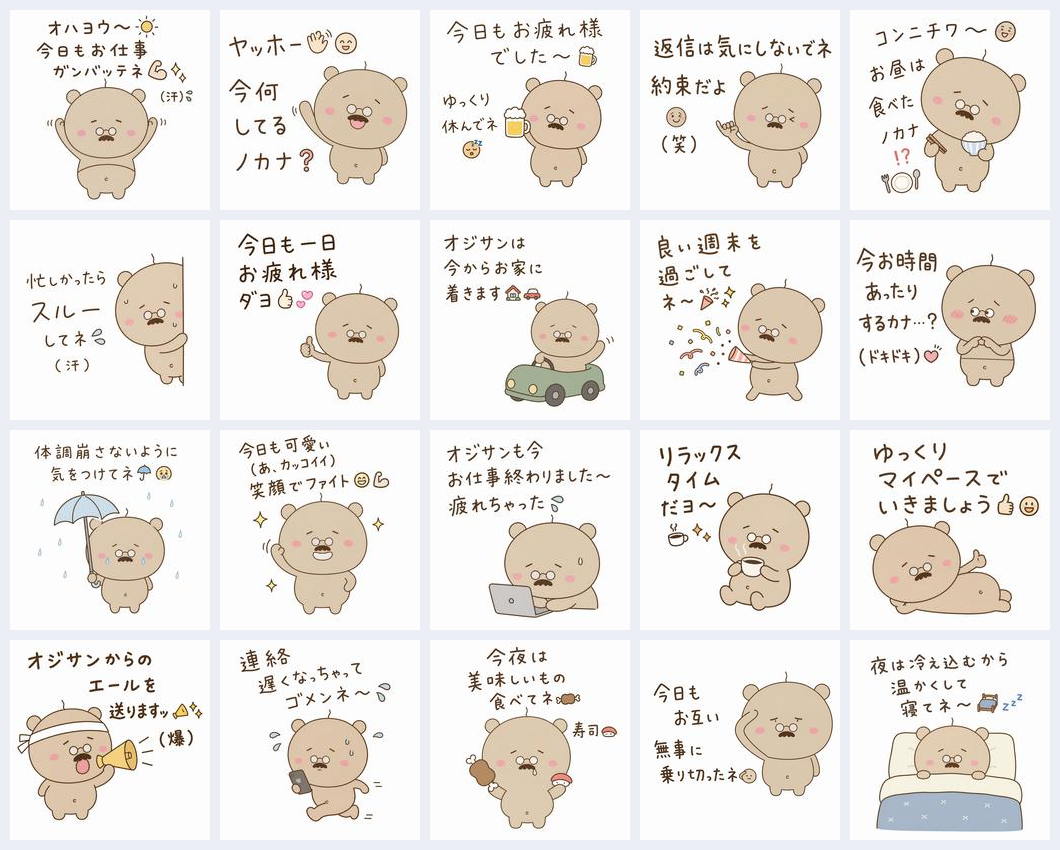
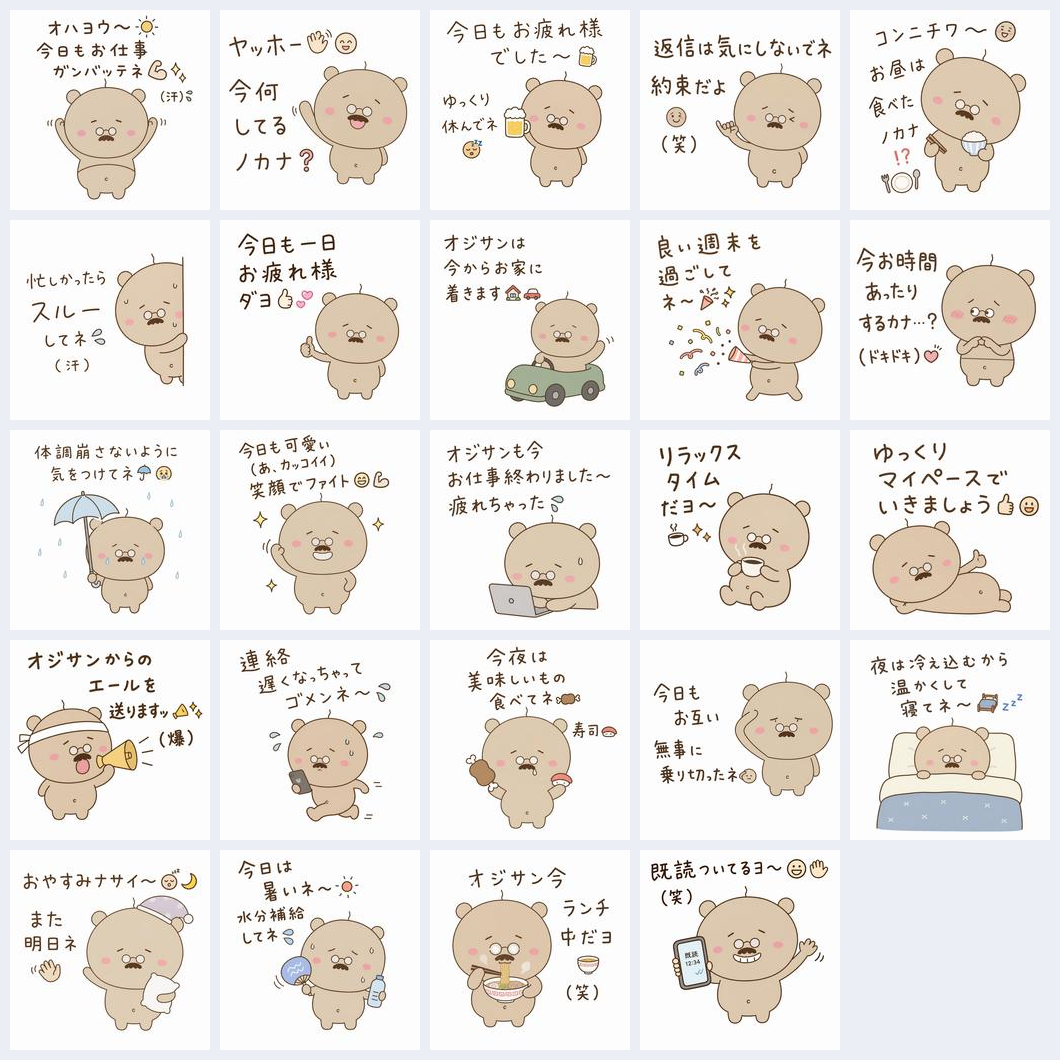
くまスタンプを各パターン24枚（計96枚）にそろえ、一覧とREADMEを更新
Claude-Session: https://claude.ai/code/session_01GnZrV33MXXmpxV4BdozbVJ

diff --git a/line-emoji/kuma/README.md b/line-emoji/kuma/README.md
@@ -1,10 +1,10 @@
-# ゆるクマおじさん LINEスタンプ（試作80枚）
+# ゆるクマおじさん LINEスタンプ（4セット×24枚）
 
 キャラクター原画: [Canvaで開く](https://www.canva.com/M/MAHXBGNiB4c)
 
-高画質版は各リンクからCanvaで確認できる。フォルダ内の `*_preview.jpg` は確認用の縮小画像（200px）。
+高画質版は各リンクからCanvaで確認できる。フォルダ内の `*_preview.jpg` は確認用の縮小画像（200px）。21〜24は24枚セットにするための追加分。
 
-## 【基本】日常使い・挨拶系
+## 【基本】日常使い・挨拶系（24枚）
 
 | # | セリフ | Canva |
 |---|---|---|
@@ -28,8 +28,12 @@
 | 18 | 今夜は美味しいもの食べてネ🍖寿司🍣 | [開く](https://www.canva.com/M/MAHXBU0RphM) |
 | 19 | 今日もお互い無事に乗り切ったネ🫡 | [開く](https://www.canva.com/M/MAHXBVfvnmg) |
 | 20 | 夜は冷え込むから温かくして寝てネ〜🛏💤 | [開く](https://www.canva.com/M/MAHXBc2B8hs) |
+| 21 | おやすみナサイ〜😴🌙また明日ネ✋ | [開く](https://www.canva.com/M/MAHXBq5_qiA) |
+| 22 | 今日は暑いネ〜☀水分補給してネ💦 | [開く](https://www.canva.com/M/MAHXBtNnms4) |
+| 23 | オジサン今ランチ中だヨ🍜（笑） | [開く](https://www.canva.com/M/MAHXBvqBS7c) |
+| 24 | 既読ついてるヨ〜😃✋（笑） | [開く](https://www.canva.com/M/MAHXBskwoLQ) |
 
-## 【派生①】感謝・褒める・共感系
+## 【派生①】感謝・褒める・共感系（24枚）
 
 | # | セリフ | Canva |
 |---|---|---|
@@ -53,8 +57,12 @@
 | 18 | いつもフォローしてくれて感謝だヨ🙏✨ | [開く](https://www.canva.com/M/MAHXBW6RwQU) |
 | 19 | オジサン味方だから何でも言ってネ💪😃 | [開く](https://www.canva.com/M/MAHXBcChACE) |
 | 20 | 嬉しすぎて跳び上がっちゃいました〜イエイ✌😃 | [開く](https://www.canva.com/M/MAHXBQqdois) |
+| 21 | おめでとう〜🎉オジサンも嬉しいヨ😭✨ | [開く](https://www.canva.com/M/MAHXBnLnyYo) |
+| 22 | キミのおかげだヨ〜🙏💕 | [開く](https://www.canva.com/M/MAHXBmWdWUU) |
+| 23 | さすがだネ〜オジサン見習わなきゃ📝😃 | [開く](https://www.canva.com/M/MAHXBp9mhP4) |
+| 24 | お土産アリガトウネ〜🎁😋 | [開く](https://www.canva.com/M/MAHXBiOg_1k) |
 
-## 【派生②】承諾・了解・返信系
+## 【派生②】承諾・了解・返信系（24枚）
 
 | # | セリフ | Canva |
 |---|---|---|
@@ -78,8 +86,12 @@
 | 18 | 了解〜オジサンも楽しみに待ってますッ♪ | [開く](https://www.canva.com/M/MAHXBcNMwNw) |
 | 19 | もちろん良いヨ〜むしろ大歓迎だヨ👍💕 | [開く](https://www.canva.com/M/MAHXBfgm4nY) |
 | 20 | 承知しましたッ🫡今日も頑張ろうネ💪 | [開く](https://www.canva.com/M/MAHXBfWGrDQ) |
+| 21 | 了解〜詳細は後で教えてネ📱😉 | [開く](https://www.canva.com/M/MAHXBg4u-yI) |
+| 22 | 確認しておきますッ🔍✨ | [開く](https://www.canva.com/M/MAHXBrM59sg) |
+| 23 | 全然OKだヨ〜気にしないでネ👌😊 | [開く](https://www.canva.com/M/MAHXBv7NuqY) |
+| 24 | スケジュール空けておきますッ📅✨ | [開く](https://www.canva.com/M/MAHXBhBgn_o) |
 
-## 【派生③】謝罪・言い訳・労り系
+## 【派生③】謝罪・言い訳・労り系（24枚）
 
 | # | セリフ | Canva |
 |---|---|---|
@@ -103,3 +115,7 @@
 | 18 | 今日はもう休んで明日また頑張ろうネ🛏✨ | [開く](https://www.canva.com/M/MAHXBl5VYas) |
 | 19 | 心配になっちゃいました💦大丈夫カナ…❓ | [開く](https://www.canva.com/M/MAHXBm4mnt0) |
 | 20 | オジサンが代わってあげたいくらいだヨ😭💪 | [開く](https://www.canva.com/M/MAHXBrHBZRU) |
+| 21 | 寝坊しちゃいました〜😭⏰（汗） | [開く](https://www.canva.com/M/MAHXBlnGqI0) |
+| 22 | 既読スルーしちゃってゴメンネ〜📱💦 | [開く](https://www.canva.com/M/MAHXBrgPZIo) |
+| 23 | お大事にネ🍵ゆっくり治してネ | [開く](https://www.canva.com/M/MAHXB9nJabY) |
+| 24 | 行けなくなっちゃった…本当にゴメンネ🙏😭 | [開く](https://www.canva.com/M/MAHXB_8scSo) |
